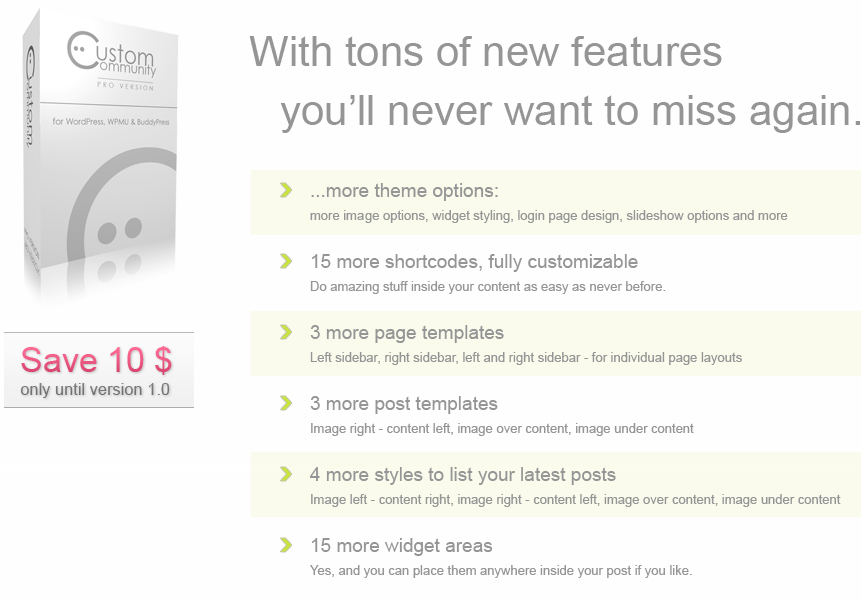
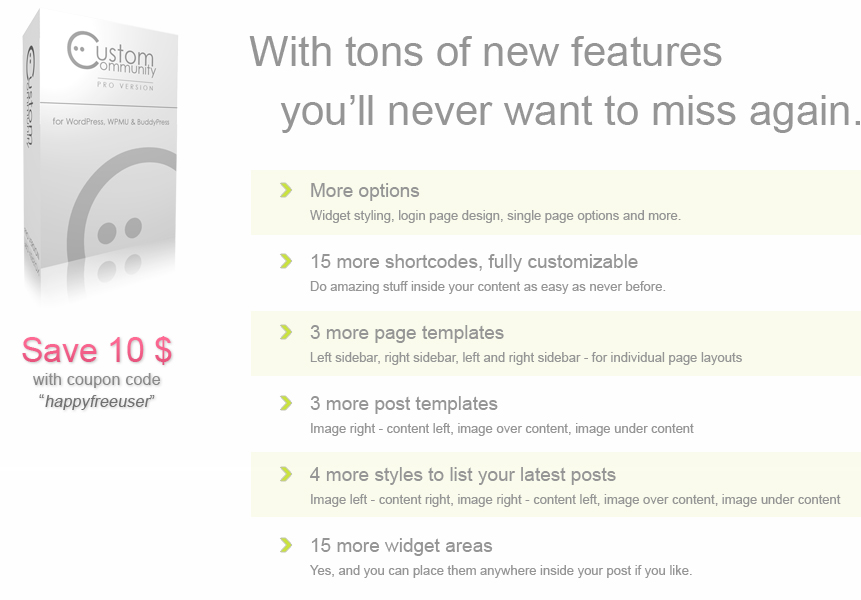
updated theme settings header and get-the-pro tab

Changed region(s): [[0.3624, 0.3, 0.9059, 0.39], [0.0302, 0.54, 0.2114, 0.69]]

diff --git a/admin/library.php b/admin/library.php
@@ -496,11 +496,11 @@ function top_level_settings() {
 
 	<div class="wrap">
 	
-		<h2><b><?php echo $themename; ?> Options</b></h2>
-		<p style="margin-bottom:20px; color:#000;">Custom Community is proudly brought to you by <a style="color:#abc214" href="http://themekraft.com/" target="_blank">Themekraft</a>.
-		<br>For support, check out the <a href="http://themekraft.com/forums/" target="_blank">FORUM</a> and <a href="http://themekraft.com/faq/" target="_blank">FAQ</a>. 
+		<h2><b>Theme Settings</b></h2>
+		<p style="margin-bottom:20px; color:#000;">Custom Community's free version is proudly brought to you by <a style="color:#abc214" href="http://themekraft.com/" target="_blank">Themekraft</a>.
+		<br><a href="http://support.themekraft.com/categories/20053996-custom-community" target="_blank">Documentation</a> and <a href="http://themekraft.com/shop/premium-support/" target="_blank" title="Personal help by product experts">Premium Support</a> at Themekraft.  
 		<?php if(!defined('is_pro')){ ?>
-			Looking for more? <a style="color:#ff9900" href="https://themekraft.com/theme/custom-community-pro/" target="_blank">Get the Full Version</a> </p>
+			Looking for more? <a style="color:#ff9900" href="http://themekraft.com/shop/custom-community-pro/" target="_blank">Get the full version</a>.</p>
 		<?php } ?>
 		
 		<form method="post" action="options.php">

diff --git a/admin/get-pro.php b/admin/get-pro.php
@@ -4,7 +4,7 @@
 </style>
  <div id="cap_getpro">
 	<div class="getpro_content">
-	    <a href="https://themekraft.com/theme/custom-community-pro/" title="Custom Community Pro" target="_blank">
+	    <a href="http://themekraft.com/shop/custom-community-pro/" title="Custom Community Pro" target="_blank">
 	    <img src="<?php echo get_template_directory_uri(); ?>/images/get-pro.jpg" width="861" height="600" style="margin:10px 0;" />
 	    </a> 
 	</div>
